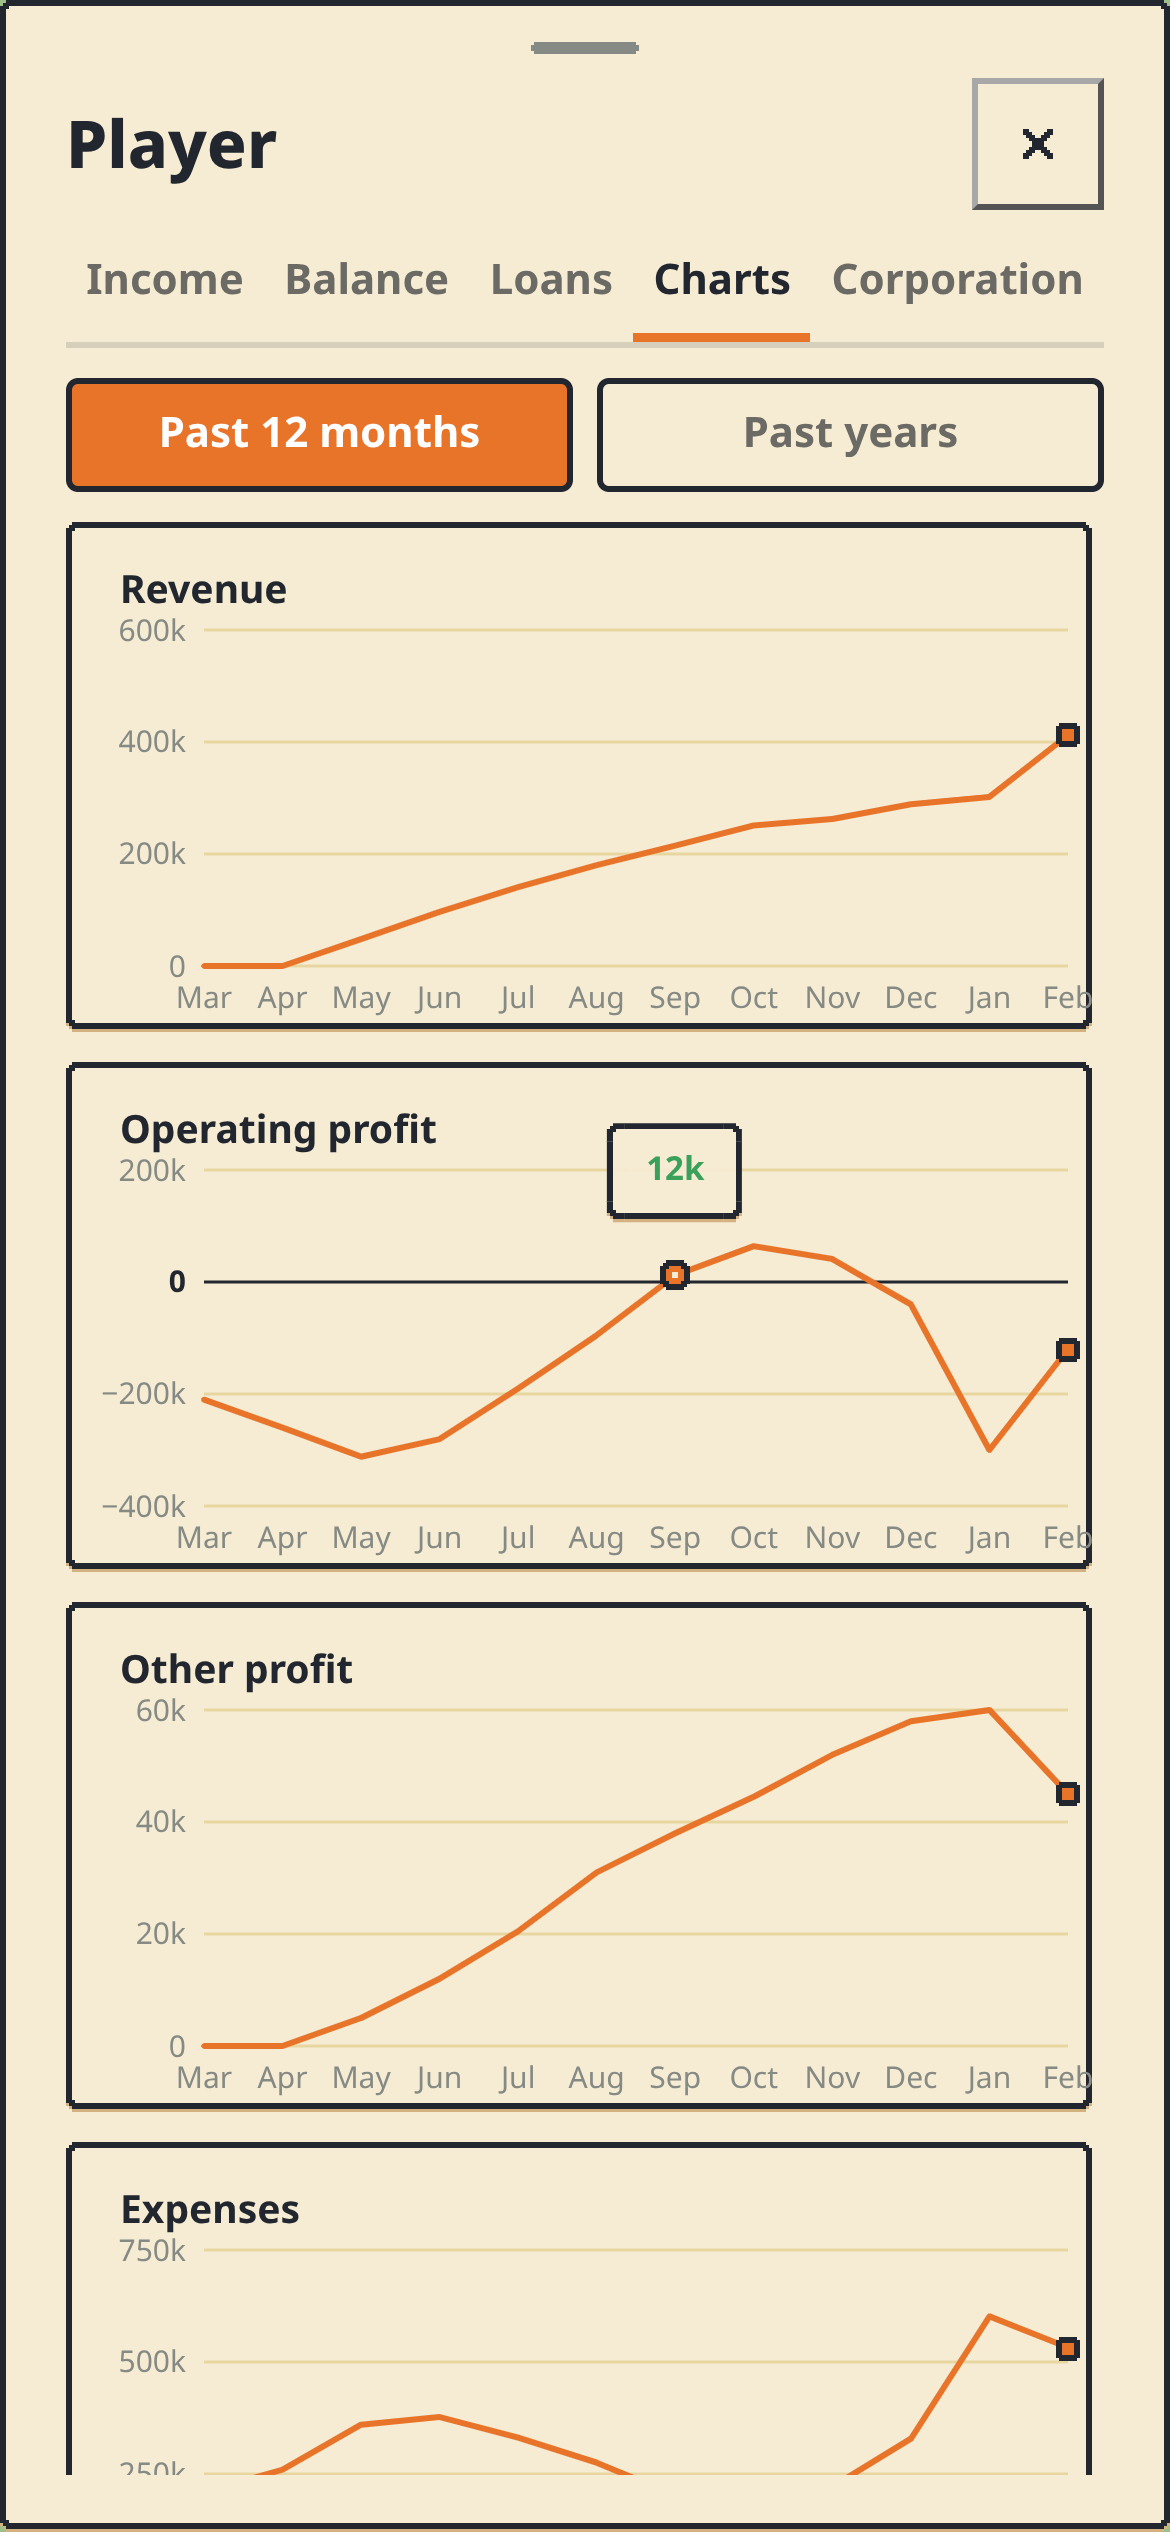
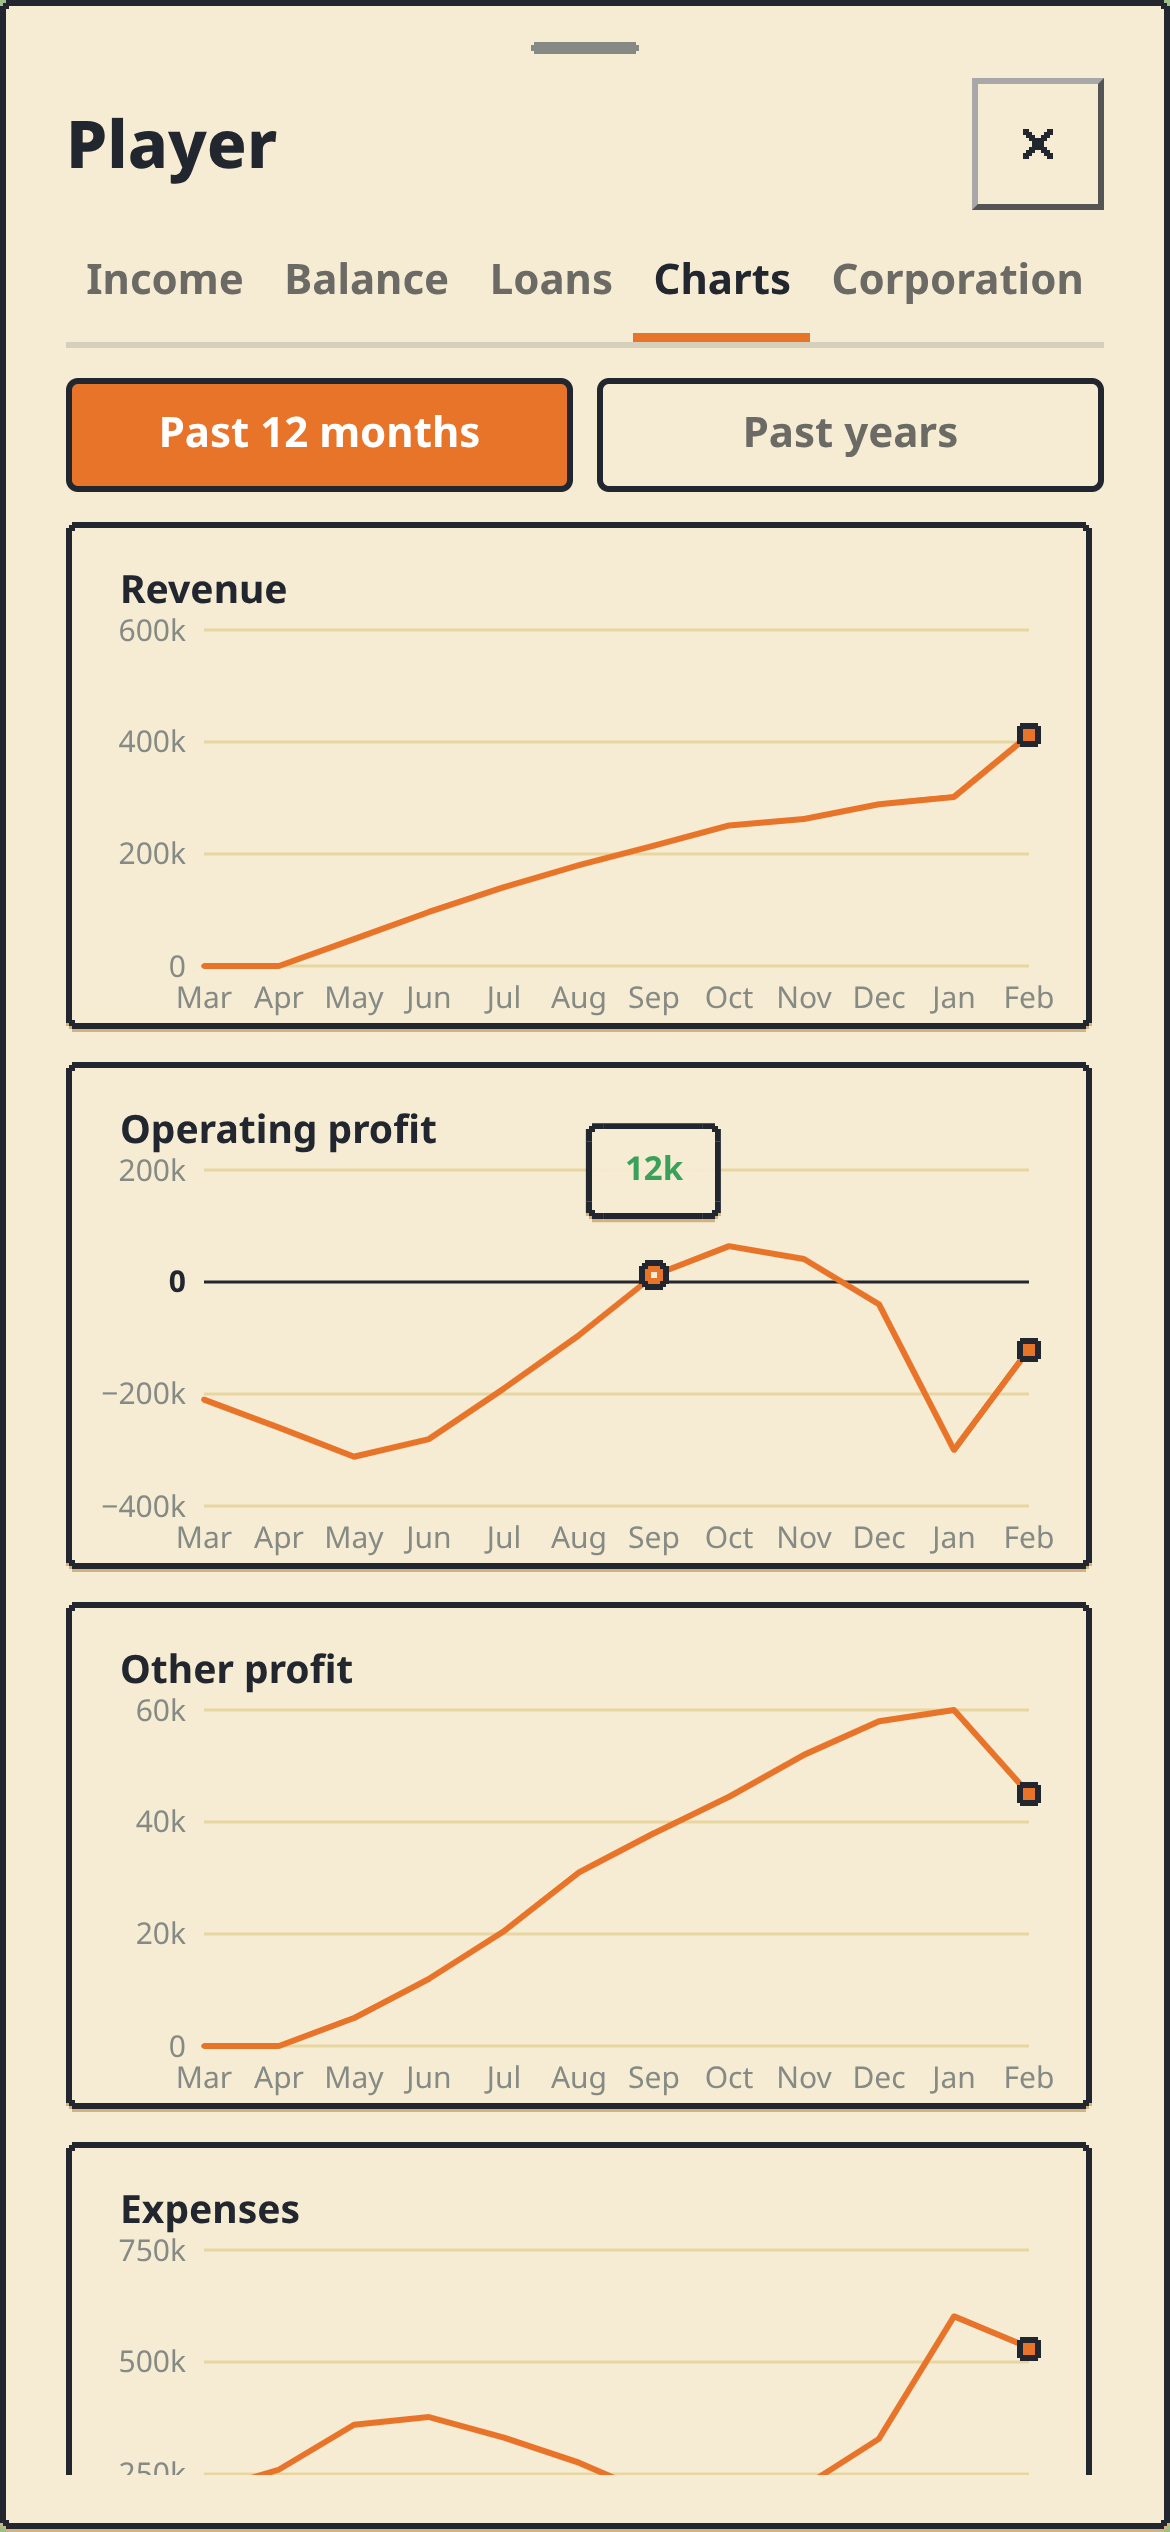
Chart right padding keeps the last dot and label inside the card border (#258)

diff --git a/client/src/ui/chart.ts b/client/src/ui/chart.ts
@@ -77,7 +77,15 @@ export interface ChartLayout {
   zeroY: number | null;
 }
 
-const PAD = { left: 40, right: 14, top: 30, bottom: 28 };
+/** The card frame's border (ui_atlas card slice 6 + 6): the SVG sits inside it, so the card's
+ * inner right edge is at x = w - CARD_BORDER. */
+const CARD_BORDER = 12;
+/** Half the widest x label ("1990" at 10 pt, about 22 pt wide) and the tapped dot's radius. */
+const LABEL_HALF = 11;
+const DOT_R = 5;
+/** Right padding keeps the last dot and its x label inside the border, plus 4 pt (Artist, #341).
+ * The same for every chart so the cards line up. */
+const PAD = { left: 40, right: CARD_BORDER + Math.max(LABEL_HALF, DOT_R) + 4, top: 30, bottom: 28 };
 
 /** Pure layout: where each tick, grid line and point goes in a w x h chart. */
 export function chartLayout(series: ChartPoint[], w: number, h: number): ChartLayout {
